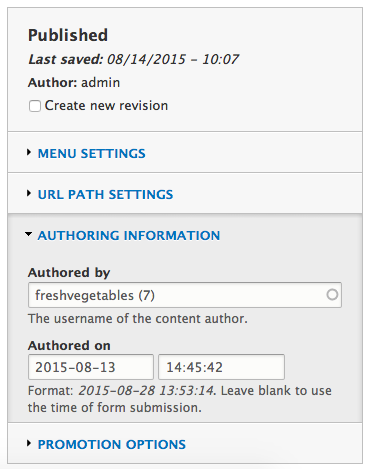
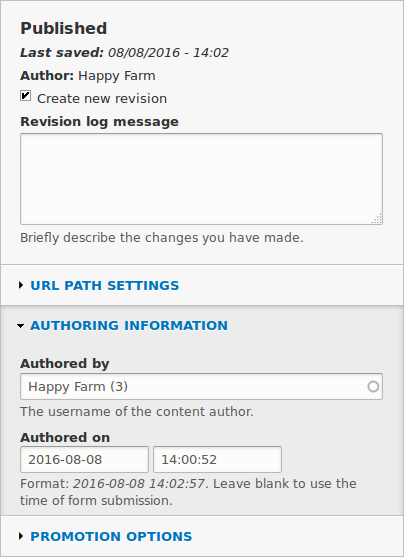
Issue #2539918 by jhodgdon: Automate more screenshots

Changed region(s): [[0.0, 0.0, 1.0, 1.0], [0.8507, 0.597, 0.9093, 0.6567], [0.7333, 0.7463, 0.7627, 0.7761]]

diff --git a/auto_screenshots/src/Tests/UserGuideDemoTestBase.php b/auto_screenshots/src/Tests/UserGuideDemoTestBase.php
@@ -133,6 +133,11 @@ abstract class UserGuideDemoTestBase extends WebTestBase {
     'image_style_label' => 'Extra medium (300x200)',
     'image_style_machine_name' => 'extra_medium_300x200',
 
+    // Hours and location block.
+    'hours_block_description' => 'Hours and location block',
+    'hours_block_title' => 'Hours and location',
+    'hours_block_body' => '<p>Open: Sundays, 9 AM to 2 PM, April to September</p>\n<p>Location: Parking lot of Trust Bank, 1st & Union, downtown</p>',
+
   ];
 
   /**
@@ -979,10 +984,43 @@ abstract class UserGuideDemoTestBase extends WebTestBase {
     $this->setUpScreenShot('user-roles_message_bulk.png', 'onLoad="' . $this->showOnly('.messages--status') . $this->setWidth('.messages') . $this->setBodyColor() . '"');
 
 
+    // Topic: user-content - Assigning Authors to Content.
+
+    // Assign first vendor node to the corresponding vendor user.
+    $this->drupalPostForm('node/3/edit', [
+        'uid[0][target_id]' => $this->demoInput['vendor_1_title'],
+      ], $this->callT('Save and keep published'));
+    // Confirmation message after content update.
+    $this->setUpScreenShot('user-content_updated.png', 'onLoad="' . $this->showOnly('.messages--status') . $this->setWidth('.messages') . $this->setBodyColor() . $this->removeScrollbars() . '"');
+    // Go back and take the screenshot of the authoring information.
+    $this->drupalGet('node/3/edit');
+    // Authoring information section of content edit page.
+    $this->setUpScreenShot('user-content.png', 'onLoad="' . $this->hideArea('#toolbar-administration, .content-header, .region-breadcrumb, .help, .layout-region-node-main, .layout-region-node-footer') . $this->setBodyColor() . 'jQuery(\'#edit-author\').attr(\'open\', \'open\'); ' . $this->removeScrollbars() . '"');
+
+    // Assign second vendor node to the corresponding vendor user, without
+    // screenshots.
+    $this->drupalPostForm('node/4/edit', [
+        'uid[0][target_id]' => $this->demoInput['vendor_2_title'],
+      ], $this->callT('Save and keep published'));
+
+
+    // Topic: block-create-custom - Creating a Custom Block.
+
+    // Create a block for hours and location.
+    $this->drupalGet('block/add');
+    // Block add page (block/add).
+    $this->setUpScreenShot('block-create-custom-add-custom-block.png', 'onLoad="jQuery(\'#edit-info-0-value\').val(\'' . $this->demoInput['hours_block_description'] . '\');' . $this->hideArea('#toolbar-administration') . $this->setWidth('.content-header, .layout-container', 800) . $this->removeScrollbars() . '"');
+    $this->drupalPostForm(NULL, [
+        'info[0][value]' => $this->demoInput['hours_block_description'],
+        'body[0][value]' => $this->demoInput['hours_block_body'],
+      ], $this->callT('Save'));
+
+
+
     // @todo Add more topics here.
 
 
-    // Topic: language-add - Adding a language.
+    // Topic: language-add - Adding a Language.
 
     // For non-English versions, locale and language will already be enabled.
     // For English, not yet. In both cases, we need config/content translation
